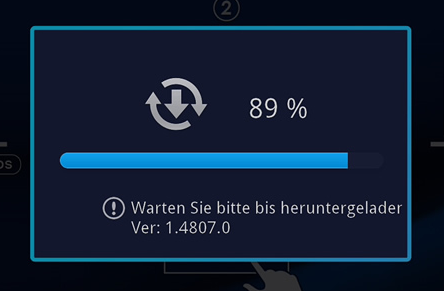
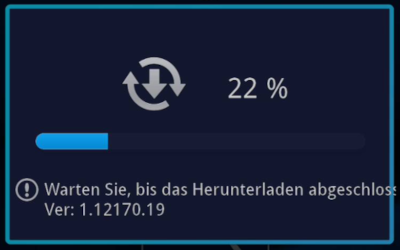
Update Firmware via CMS

diff --git a/docs/pro-box-b10/firmware-upgrade.md b/docs/pro-box-b10/firmware-upgrade.md
@@ -63,4 +63,33 @@ Nach einer Firmware-Aktualiserung überprüfen Sie alle Einstellungen und neue F
 !!! tip "Hinweis"
     
 	Wenn Sie die Funktion Erweiterte Einstellungen in einem Webbrowser statt in der EZCast Pro App/Software ansehen, leeren Sie bitte nach der Aktualisierung der Firmware den Browser-Cache, um alle neu verfügbaren Optionen zu sehen.
-	
+
+## Firmware mit dem CMS installieren
+
+Mit dem CMS ([Central Management System](cms.md)) kann man die neuste Firmware vom Internet auf mehreren EZCast Pro II bzw. QuattroPod Geräten installieren.
+
+* Wenn eine neue Firmware für Ihre EZCast Pro II Geräte zur Verfügung steht, taucht die Meldung ![](/assets/img/CMS-firmware.available.png) neben dem Gerät auf:
+
+![Die Firmware wird installiert](/assets/img/CMS-firmware.OTA.select.devices.png)
+
+* Wählen Sie die gewünschten Geräte aus, anschließend klicken Sie auf die Schaltfläche `Remote` -> und wählen Sie die Funktion `Device firmware upgrade`.
+
+![Die Firmware wird installiert](/assets/img/CMS-firmware.install.latest.firmware.png)
+
+* Unter der Registerkarte `OTA`, klicken Sie einfach auf die Schaltfläche `Apply`, um die Aktualisierung durchzuführen:
+
+![Die Firmware wird installiert](/assets/img/CMS-firmware.upgrade.OTA.png)
+
+Die neue Firmware wird heruntergeladen und automatisch installiert.
+
+* Während der Aktualisierung des Empfängers erscheint folgende Meldung:
+
+![Firmware-Version aktualisieren](/assets/img/ProIIStick_Firmware_installing.png)
+
+!!! warning "Achtung"
+    
+	Unterbrechen Sie während des Updates nicht die Stromversorgung.
+
+!!! tip "Hinweis"
+
+     Sollten die Sender nach der Firmware-Aktualisierung nicht mit dem Empfänger verbinden können, müssen sie neu [gekoppelt](pairing.md) werden.	

diff --git a/docs/pro-stick-d10/firmware-upgrade.md b/docs/pro-stick-d10/firmware-upgrade.md
@@ -63,4 +63,33 @@ Nach einer Firmware-Aktualiserung überprüfen Sie alle Einstellungen und neue F
 !!! tip "Hinweis"
     
 	Wenn Sie die Funktion Erweiterte Einstellungen in einem Webbrowser statt in der EZCast Pro App/Software ansehen, leeren Sie bitte nach der Aktualisierung der Firmware den Browser-Cache, um alle neu verfügbaren Optionen zu sehen.
-	
+
+## Firmware mit dem CMS installieren
+
+Mit dem CMS ([Central Management System](cms.md)) kann man die neuste Firmware vom Internet auf mehreren EZCast Pro II bzw. QuattroPod Geräten installieren.
+
+* Wenn eine neue Firmware für Ihre EZCast Pro II Geräte zur Verfügung steht, taucht die Meldung ![](/assets/img/CMS-firmware.available.png) neben dem Gerät auf:
+
+![Die Firmware wird installiert](/assets/img/CMS-firmware.OTA.select.devices.png)
+
+* Wählen Sie die gewünschten Geräte aus, anschließend klicken Sie auf die Schaltfläche `Remote` -> und wählen Sie die Funktion `Device firmware upgrade`.
+
+![Die Firmware wird installiert](/assets/img/CMS-firmware.install.latest.firmware.png)
+
+* Unter der Registerkarte `OTA`, klicken Sie einfach auf die Schaltfläche `Apply`, um die Aktualisierung durchzuführen:
+
+![Die Firmware wird installiert](/assets/img/CMS-firmware.upgrade.OTA.png)
+
+Die neue Firmware wird heruntergeladen und automatisch installiert.
+
+* Während der Aktualisierung des Empfängers erscheint folgende Meldung:
+
+![Firmware-Version aktualisieren](/assets/img/ProIIStick_Firmware_installing.png)
+
+!!! warning "Achtung"
+    
+	Unterbrechen Sie während des Updates nicht die Stromversorgung.
+
+!!! tip "Hinweis"
+
+     Sollten die Sender nach der Firmware-Aktualisierung nicht mit dem Empfänger verbinden können, müssen sie neu [gekoppelt](pairing.md) werden.	
